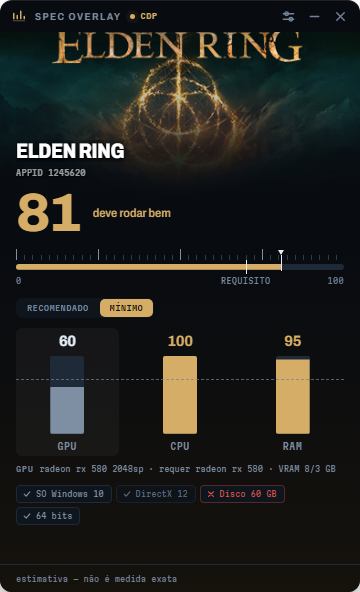
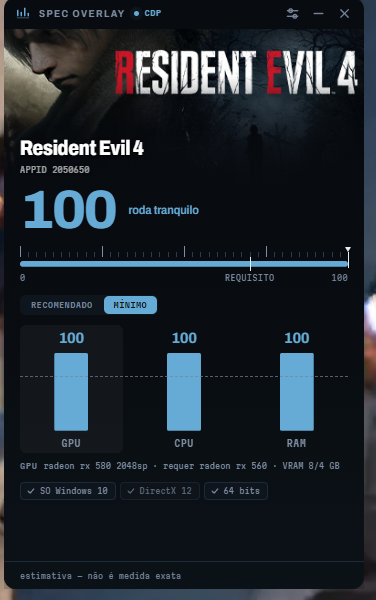
docs: regravar shot-minimo.png com o design novo
Screenshot real do app rodando (Steam aberto, Resident Evil 4, modo
CDP conectado) - mostra o tema extraído da arte do jogo, número
herói, régua de instrumento e barras segmentadas da Fase 2 do
redesign. Substitui o print do layout antigo que o README ainda
apontava.

Faltam recomendado/config/compacto - clique automatizado no toggle
não funcionou nessa sessão (bug no tool de clique), fica pra depois.

diff --git a/docs/GUI-REDESIGN-PLAN.md b/docs/GUI-REDESIGN-PLAN.md
@@ -322,7 +322,9 @@ O resto da Fase 4 continua pendente.
 ## 6. O que fica pendente
 
 1. **`docs/shot-*.png` mostram o design antigo.** O README aponta para eles.
-   Regravar é Fase 5.
+   Regravar é Fase 5. `shot-minimo.png` já regravado (Resident Evil 4, modo CDP,
+   tema vermelho extraído da arte). Faltam `shot-recomendado.png`,
+   `shot-config.png` e `shot-compacto.png`.
 2. **Fase 4 restante** — estados `setup`/`no-steam`/erro ainda usam a caixa de
    mensagem padrão (funcional e coerente, mas sem tratamento próprio).
 3. **Fase 5 inteira** — GIF de demonstração, hero no README, ícones do app e da
